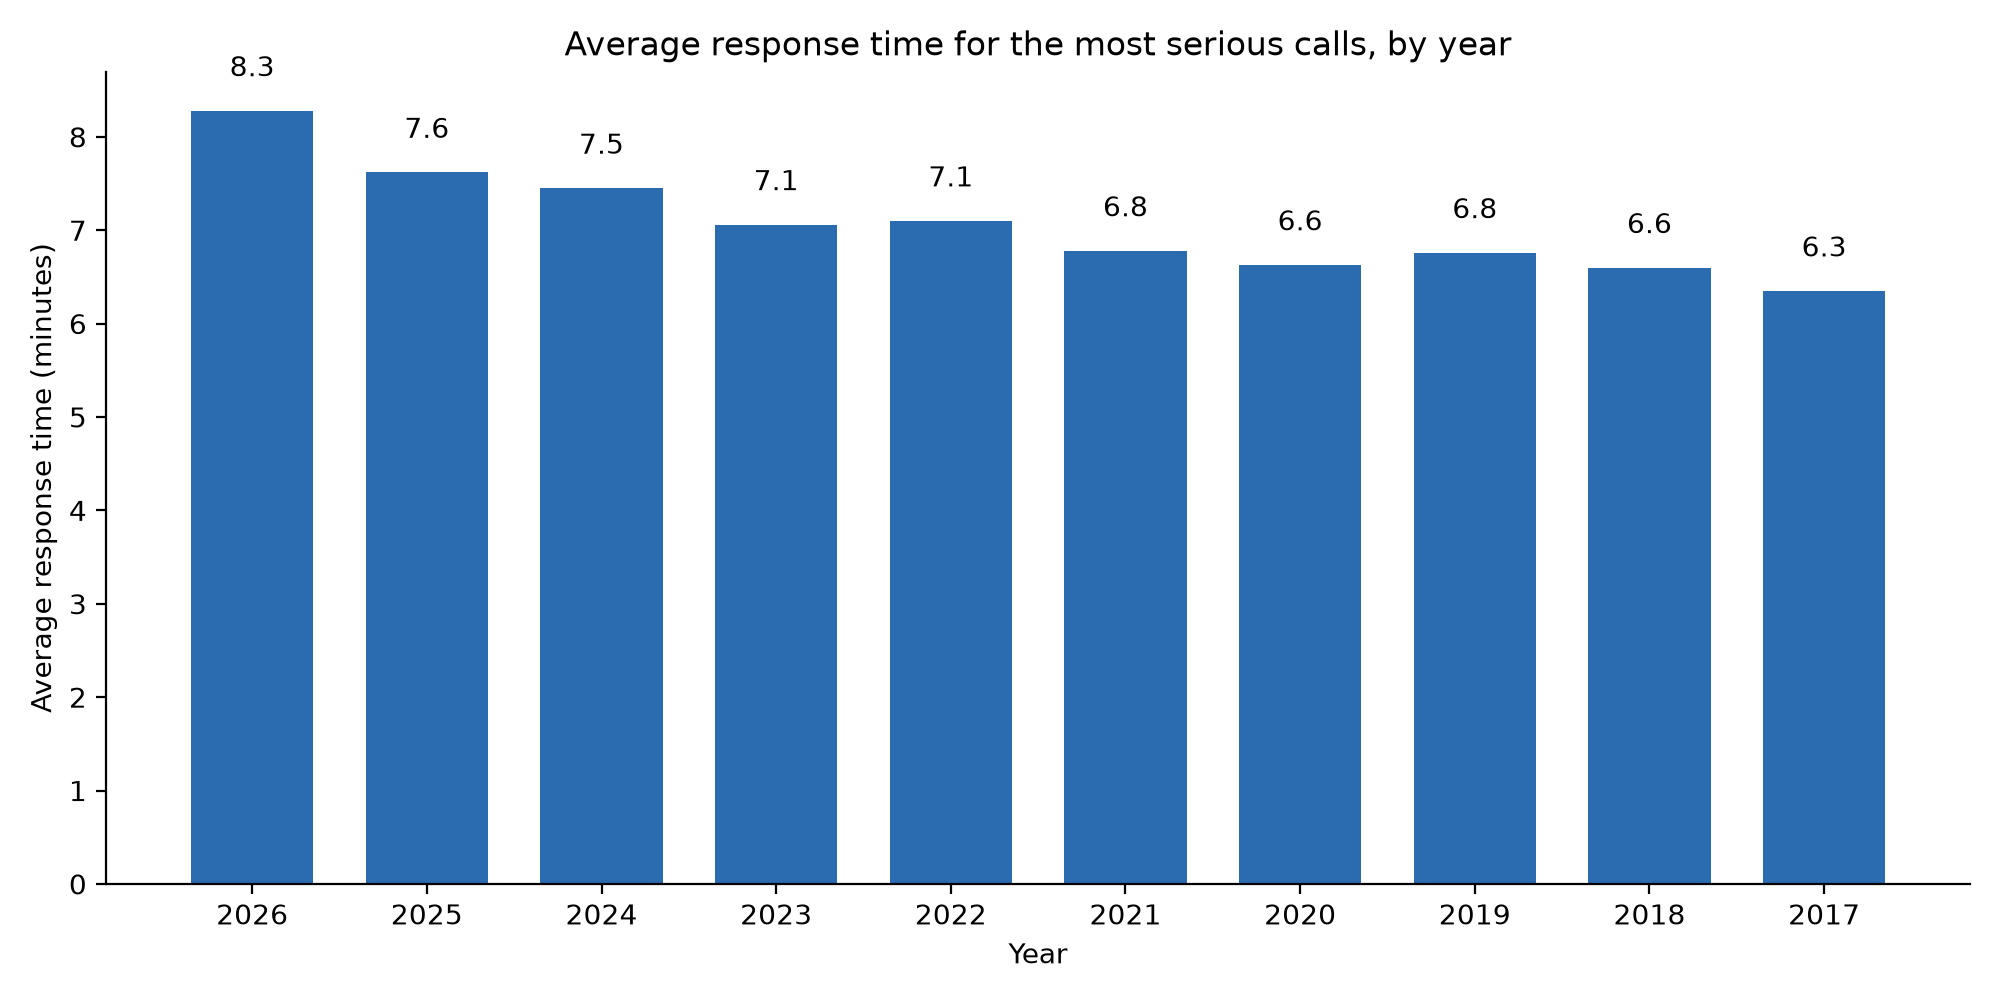
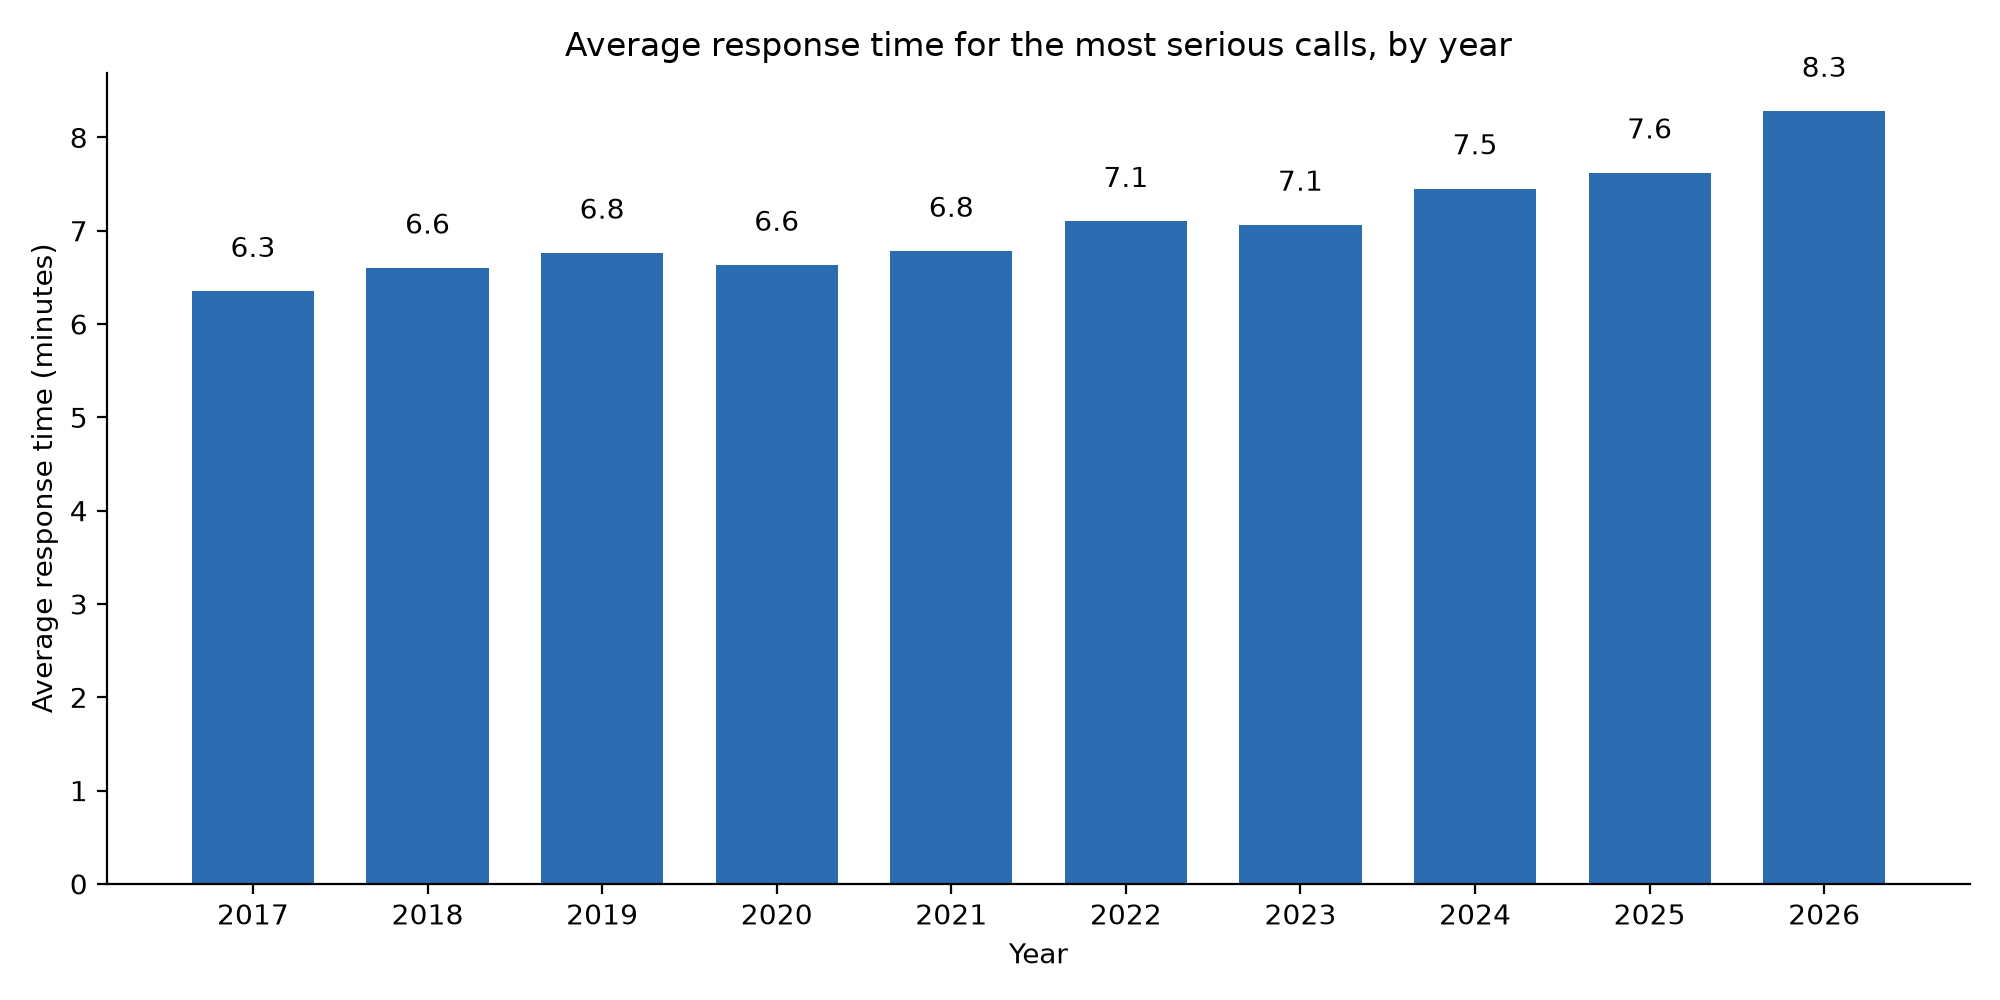
Added SQL questions and charts

diff --git a/projects/P0/warehouse/make_charts.py b/projects/P0/warehouse/make_charts.py
@@ -4,7 +4,7 @@ import os
 import numpy as np
 import pandas as pd
 import matplotlib.pyplot as plt
-import pgeocode
+#import pgeocode
 from google.cloud import bigquery
 
 PROJECT = "desk-thanujanndayaparan"
@@ -18,7 +18,7 @@ def run(sql):
     return client.query(sql).to_dataframe()
 
 # Q1: Response time by year (bar chart)
-q1 = run(f"SELECT * FROM (SELECT * FROM `{PROJECT}.{DATASET}.v_q1_response_by_year ORDER BY year DESC LIMIT 10) AS subquery ORDER BY year ASC;")
+q1 = run(f"SELECT * FROM (SELECT * FROM `{PROJECT}.{DATASET}.v_q1_response_by_year` ORDER BY year DESC LIMIT 10) AS subquery ORDER BY year ASC;")
 q1["year"] = q1["year"].astype(str)
 
 fig, ax = plt.subplots(figsize=(10, 5))
@@ -30,6 +30,99 @@ ax.set_ylabel("Average response time (minutes)")
 ax.spines[["top", "right"]].set_visible(False)
 fig.tight_layout()
 fig.savefig("charts/q1_response_by_year.png", dpi=200)
+
+
+# Q4: Response times by hour and day of week
+
+q4 = run("""
+SELECT d.day_name , t.hour, ROUND(AVG(f.response_seconds)/60, 2) as response_time_min, COUNT(f.response_seconds) AS serious_incidents
+FROM `desk-thanujanndayaparan.ems_dw.fact_ems_incident` AS f
+JOIN `desk-thanujanndayaparan.ems_dw.dim_date` AS d on f.date_key = d.date_key 
+JOIN `desk-thanujanndayaparan.ems_dw.dim_time` AS t on f.hour_key = t.hour_key
+JOIN `desk-thanujanndayaparan.ems_dw.dim_call` AS c on f.call_type_key = c.call_type_key
+WHERE c.is_most_serious = TRUE
+GROUP BY t.hour, d.day_name
+ORDER BY response_time_min DESC
+""")
+
+days_order = ["Monday", "Tuesday", "Wednesday", "Thursday", "Friday", "Saturday", "Sunday"]
+hours_order = list(range(24))
+hour_labels = [f"{h % 12 or 12} {'AM' if h < 12 else 'PM'}" for h in hours_order]
+
+
+heatmap_data = q4.pivot_table(
+    index="day_name", 
+    columns="hour", 
+    values="response_time_min", 
+    aggfunc="mean"
+).reindex(index=days_order, columns=hours_order)
+
+fig, ax = plt.subplots(figsize=(10, 5))
+im = ax.imshow(heatmap_data, cmap="YlOrRd", aspect="auto")
+
+ax.set_title("Response time heatmap by day and hour", pad=10)
+ax.set_xlabel("Hour of day")
+ax.set_ylabel("Day of week")
+
+ax.set_xticks(range(24))
+ax.set_xticklabels(hour_labels)
+ax.tick_params(axis="x", labelrotation=45)
+ax.set_yticks(range(7))
+ax.set_yticklabels(days_order)
+
+fig.colorbar(im, ax=ax, label="Average response time (minutes)")
+fig.tight_layout()
+fig.savefig("charts/q4_response_by_hour_and_day.png", dpi=200)
+
+# Q5: Ambulance capacity increase
+q5 = run("""
+WITH pilot AS (
+  SELECT MIN(effective_from) AS pilot_start
+  FROM `desk-thanujanndayaparan.ems_dw.dim_dispatch_area_capacity`
+  WHERE pilot_flag = TRUE AND is_current = TRUE
+)
+SELECT 
+  ca.pilot_flag, 
+  IF(f.incident_date < p.pilot_start, 'before pilot', 'after pilot') AS period, 
+  COUNT(f.response_seconds) AS incidents,
+  -- 50th percentile: half of incidents took this long or less.
+  ROUND(APPROX_QUANTILES(f.response_seconds, 100)[OFFSET(50)] / 60,2) AS median_min,
+  -- 90% of incidents took this long or less; the slowest 10% took longer.
+  ROUND(APPROX_QUANTILES(f.response_seconds, 100)[OFFSET(90)] / 60,2) AS `90p_min`
+FROM `desk-thanujanndayaparan.ems_dw.fact_ems_incident` AS f
+JOIN `desk-thanujanndayaparan.ems_dw.dim_dispatch_area_capacity` AS ca ON f.capacity_key = ca.capacity_key
+CROSS JOIN pilot AS p
+WHERE f.response_seconds IS NOT NULL
+GROUP BY 1, 2 -- Groups results by pilot status and time period.
+ORDER BY 1, 2;
+""")
+
+chart_data = q5.pivot(
+    index="pilot_flag",
+    columns="period",
+    values="median_min"
+)
+
+x = np.arange(len(chart_data))
+width = 0.35
+
+fig, ax = plt.subplots(figsize=(10, 5))
+
+bars1 = ax.bar(x - width/2, chart_data["before pilot"], width, label="Before")
+bars2 = ax.bar(x + width/2, chart_data["after pilot"], width, label="After")
+ax.bar_label(bars1, fmt="%.2f", padding=2)
+ax.bar_label(bars2, fmt="%.2f", padding=2)
+
+ax.set_title("Median response time before and after capacity increase")
+ax.set_xlabel("Area type")
+ax.set_ylabel("Median response time (minutes)")
+
+ax.set_xticks(x)
+ax.set_xticklabels(["Non-pilot areas", "Pilot areas"])
+ax.legend()
+
+fig.tight_layout()
+fig.savefig("charts/q5_capacity_comparison.png", dpi=200)
 
 print("Done. Charts saved in the charts/ folder.")
 plt.show()
